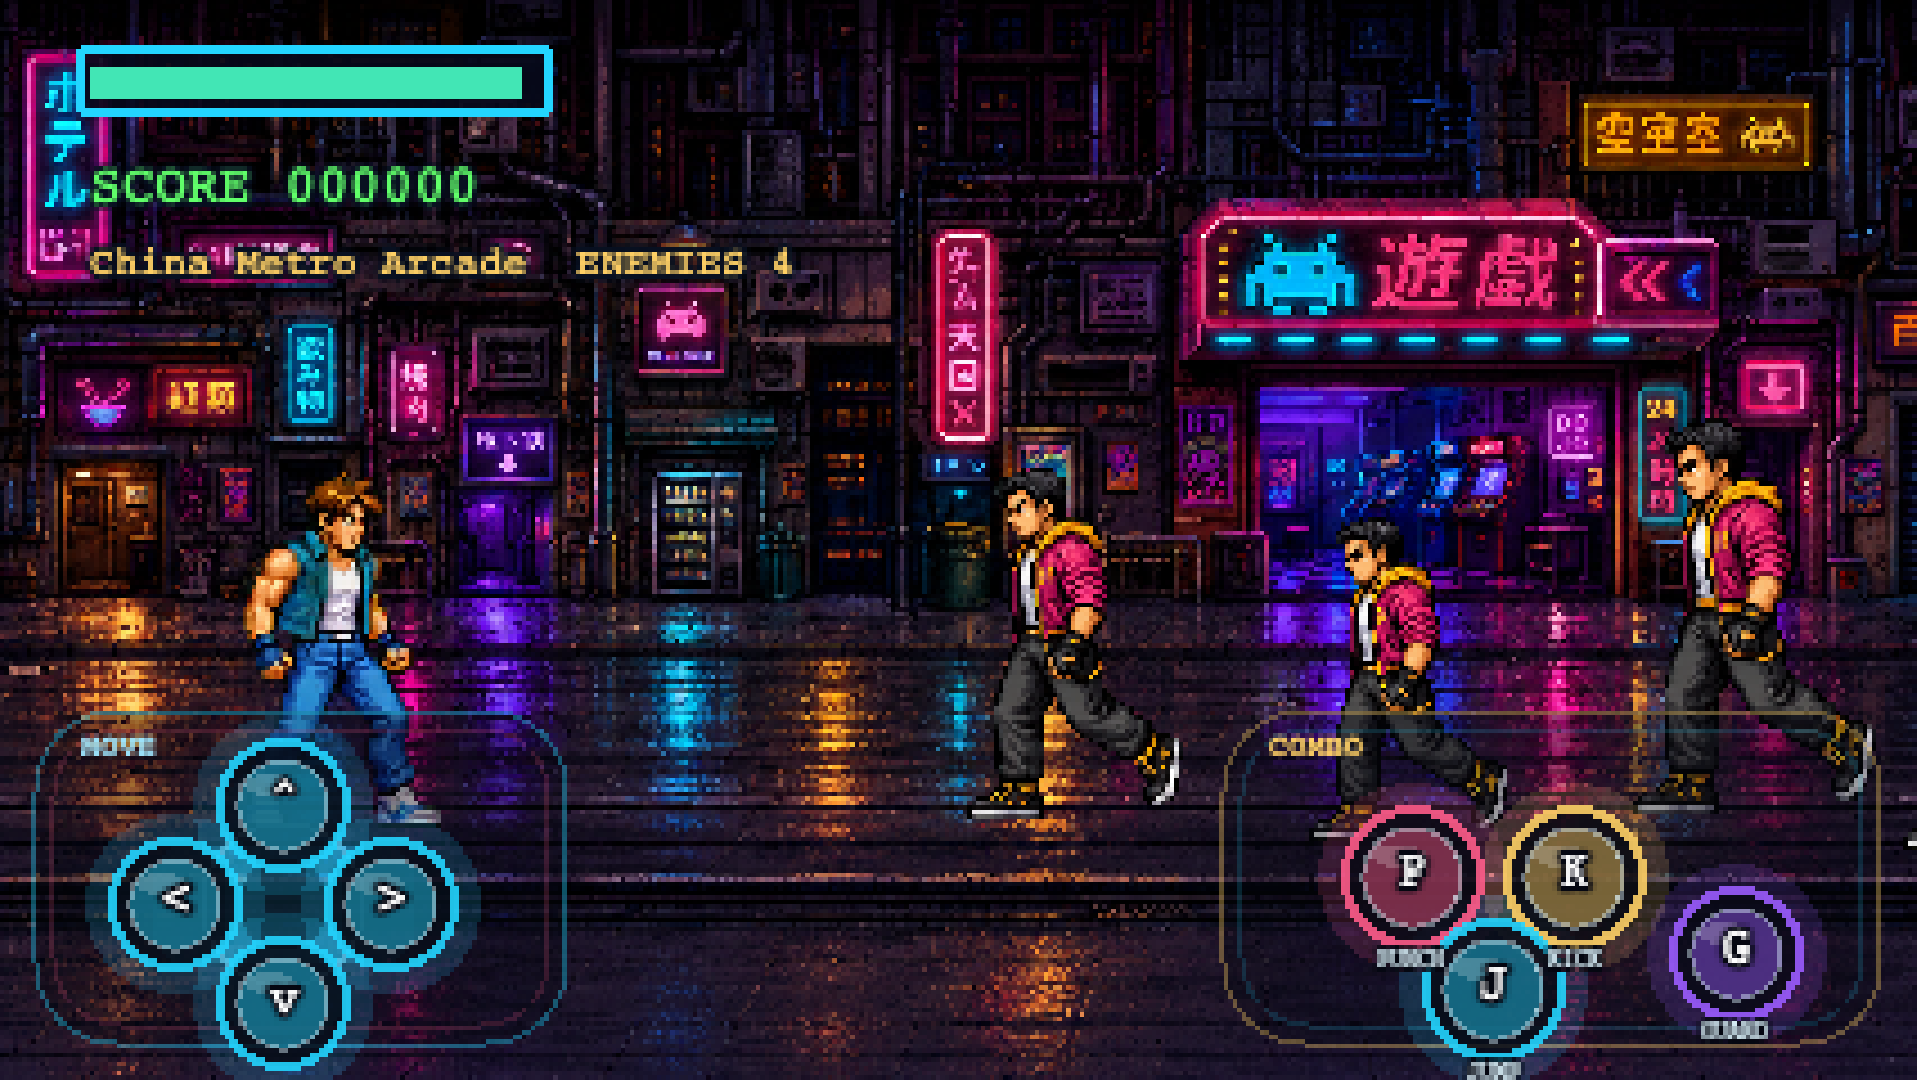
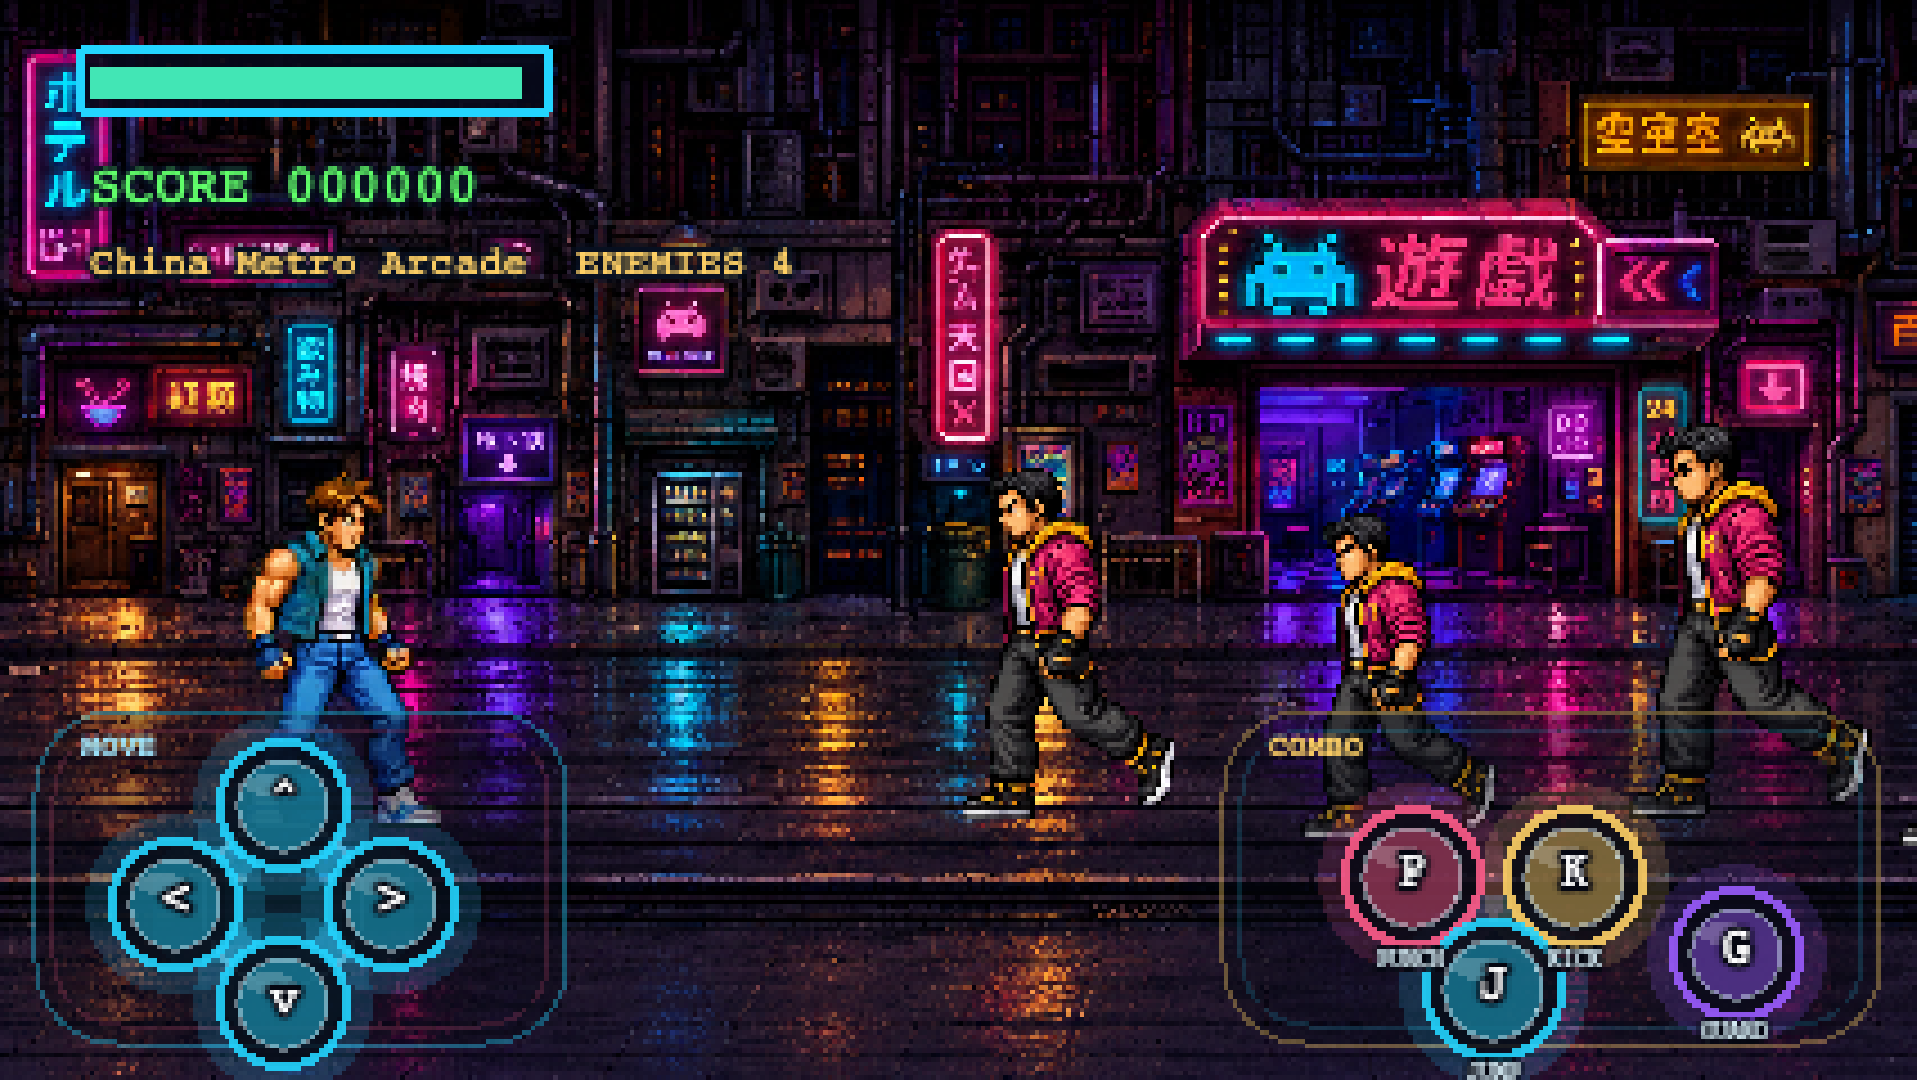
add china responsive review packets

diff --git a/neon-gauntlet/src/game/scenes/MenuScene.ts b/neon-gauntlet/src/game/scenes/MenuScene.ts
@@ -38,23 +38,25 @@ export class MenuScene extends Phaser.Scene {
       align: 'center',
     }).setOrigin(0.5)
 
-    const begin = () => {
+    const begin = (levelId = firstChinaLevel().id, score = 0) => {
       window.removeEventListener('keydown', keyBegin)
-      window.removeEventListener('pointerdown', begin)
-      const firstLevel = firstChinaLevel()
-      this.registry.set('currentLevelId', firstLevel.id)
-      this.registry.set('chapterScore', 0)
-      this.scene.start(SceneKeys.World, { levelId: firstLevel.id, score: 0 })
+      window.removeEventListener('pointerdown', pointerBegin)
+      this.registry.set('currentLevelId', levelId)
+      this.registry.set('chapterScore', score)
+      this.scene.start(SceneKeys.World, { levelId, score })
     }
+    const beginDefault = () => begin()
     const keyBegin = (event: KeyboardEvent) => {
       if (event.key === 'Enter' || event.key === ' ') begin()
     }
-    start.on('pointerdown', begin)
-    this.input.once('pointerdown', begin)
-    this.input.keyboard?.once('keydown-ENTER', begin)
-    this.input.keyboard?.once('keydown-SPACE', begin)
+    const pointerBegin = () => begin()
+    start.on('pointerdown', beginDefault)
+    this.input.once('pointerdown', beginDefault)
+    this.input.keyboard?.once('keydown-ENTER', beginDefault)
+    this.input.keyboard?.once('keydown-SPACE', beginDefault)
     window.addEventListener('keydown', keyBegin)
-    window.addEventListener('pointerdown', begin, { once: true })
-    ;(window as typeof window & { __NEON_START__?: () => void }).__NEON_START__ = begin
+    window.addEventListener('pointerdown', pointerBegin, { once: true })
+    ;(window as typeof window & { __NEON_START__?: () => void; __NEON_START_LEVEL__?: (levelId: string, score?: number) => void }).__NEON_START__ = () => begin()
+    ;(window as typeof window & { __NEON_START_LEVEL__?: (levelId: string, score?: number) => void }).__NEON_START_LEVEL__ = begin
   }
 }

diff --git a/neon-gauntlet/tests/e2e/retry.spec.ts b/neon-gauntlet/tests/e2e/retry.spec.ts
@@ -121,6 +121,17 @@ test('late China bosses spawn with their stage identity', async ({ page }) => {
   await expect.poll(() => page.evaluate(() => window.__NEON_DEBUG__?.boss?.name)).toBe('Lantern Mai')
 })
 
+test('automation can start a requested China level directly', async ({ page }) => {
+  await page.goto('/')
+  await page.waitForSelector('canvas')
+  await page.waitForFunction(() => typeof window.__NEON_START_LEVEL__ === 'function')
+  await page.evaluate(() => window.__NEON_START_LEVEL__?.('stage-04-china-night-market'))
+
+  await expect.poll(() => page.evaluate(() => window.__NEON_DEBUG__?.level?.id)).toBe('stage-04-china-night-market')
+  await expect.poll(() => page.evaluate(() => window.__NEON_DEBUG__?.level?.boss?.id)).toBe('lantern-mai')
+  await expect.poll(() => page.evaluate(() => window.__NEON_DEBUG__?.player?.hp)).toBe(150)
+})
+
 test('click replays from stage clear', async ({ page }) => {
   await startGame(page)
   await page.evaluate(() => {

diff --git a/neon-gauntlet/tests/e2e/window.d.ts b/neon-gauntlet/tests/e2e/window.d.ts
@@ -3,6 +3,7 @@ export {}
 declare global {
   interface Window {
     __NEON_START__?: () => void
+    __NEON_START_LEVEL__?: (levelId: string, score?: number) => void
     __NEON_FREEZE__?: () => void
     __NEON_TOGGLE_HITBOXES__?: () => boolean
     __NEON_GAME__?: import('phaser').Game

diff --git a/neon-gauntlet/docs/slices/SLICE_11_CHINA_REVIEW_PACKETS.md b/neon-gauntlet/docs/slices/SLICE_11_CHINA_REVIEW_PACKETS.md
@@ -1,0 +1,52 @@
+# Slice 11: China Responsive Review Packets
+
+## Goal
+
+Turn the four playable China stages from "wired and playable" into reviewable vertical slices by generating desktop, phone, and TV screenshot packets for each stage.
+
+## Why This Slice Exists
+
+The level production manifest says the China stages still need responsive review shots after playtesting. The existing capture tool validates arbitrary map files, but the runtime screenshot flow must also start the matching level, otherwise later-stage packets can accidentally show Stage 1.
+
+## Scope
+
+- Add a test/harness entry point for starting a specific level from browser automation.
+- Update the map capture tool so `--map-id` controls both the map contract and the runtime level shown in screenshots.
+- Capture review packets for:
+  - `stage-01-metro-arcade`
+  - `stage-02-china-station`
+  - `stage-03-china-back-alley`
+  - `stage-04-china-night-market`
+- Keep review packets as evidence, not production approval.
+- Update documentation so the next work is clear.
+
+## Non-Goals
+
+- Do not mark assets or levels as `production-approved`.
+- Do not modify raw temp background sources.
+- Do not create new art or sprite sheets in this slice.
+- Do not touch the SamiTube app repo.
+
+## Implementation Plan
+
+1. Add a browser automation helper that can start `WorldScene` at a requested level id.
+2. Make `tools/capture-map-preview.mjs` call that helper with the `--map-id` value.
+3. Add or update tests proving the helper starts Stage 4 directly.
+4. Capture desktop, phone, and TV screenshots for each China stage.
+5. Run the data, map, unit, focused e2e, and build verification stack.
+6. Commit and push the slice.
+
+## Verification
+
+- `npm run test:levels`
+- `npm run test:map-art`
+- `npm run test:maps`
+- `npm test`
+- focused e2e check for direct level startup
+- `npm run build`
+
+## Done Means
+
+- Every playable China map has a review packet under `docs/reviews/map-previews/<level-id>/`.
+- Each packet screenshot actually shows the requested stage.
+- The repo still clearly distinguishes review evidence from production approval.